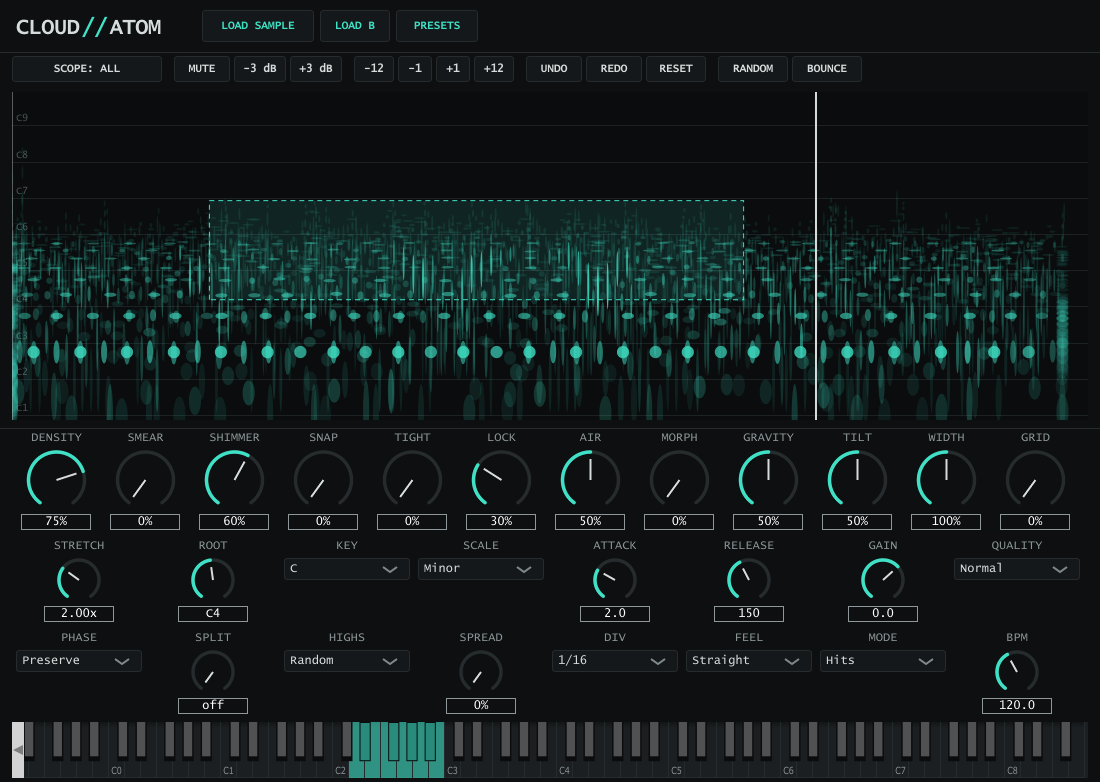
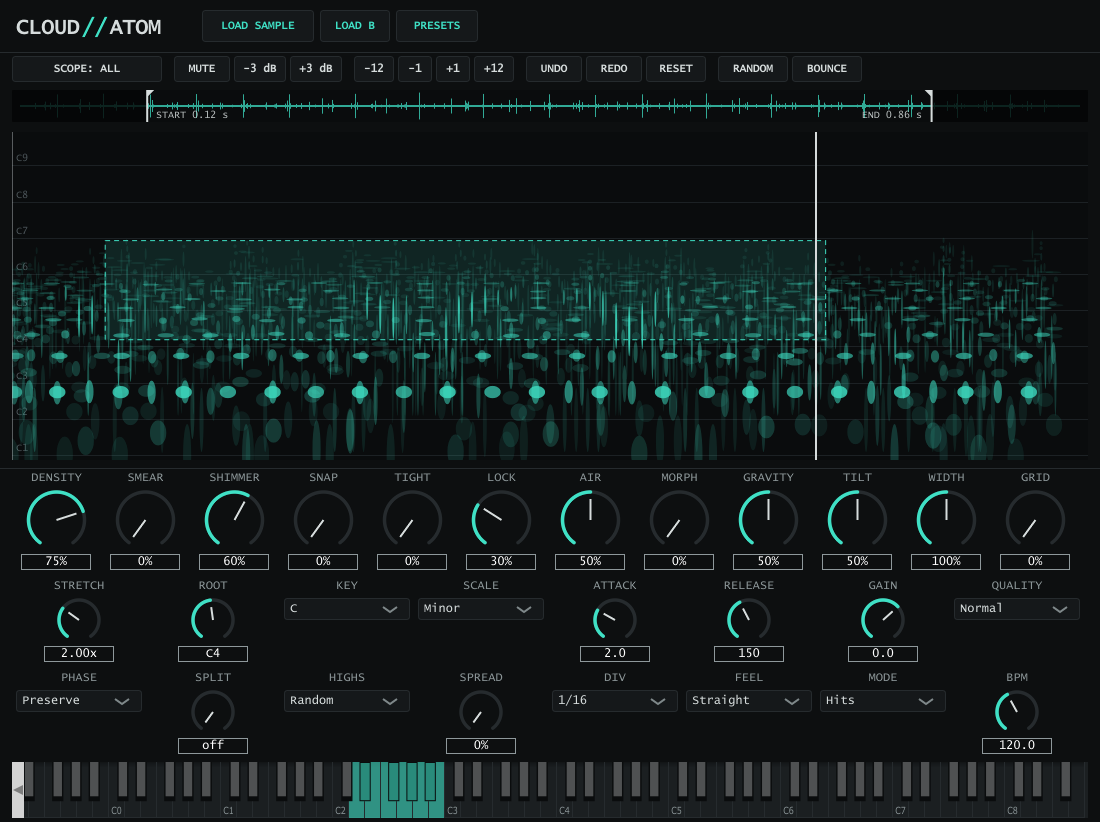
CLOUD//ATOM v1.2: start / end markers (Stripey), new screenshot

diff --git a/cloud-atom/index.html b/cloud-atom/index.html
@@ -66,7 +66,7 @@
 <body>
 <main>
   <nav class="plugtabs"><a href="../">FIELD//FAIL</a><a href="./" class="on">CLOUD//ATOM</a><a href="../chop-strand/">CHOP//STRAND</a></nav>
-  <h1>CLOUD<span>//</span>ATOM <span style="color:var(--dim);font-size:14px">instrument plugin · v1.1</span></h1>
+  <h1>CLOUD<span>//</span>ATOM <span style="color:var(--dim);font-size:14px">instrument plugin · v1.2</span></h1>
   <p class="sub">A sample-to-splat instrument: every sound becomes a cloud of Gabor atoms you can stretch, snap, sculpt and morph. Build log and renders from the plugin engine first, the original Python prototype below.
     </p>
 
@@ -74,6 +74,7 @@
   <h2>Build log</h2>
   <div class="panel">
     <ul class="log">
+      <li><time>2026-10-24</time><div><b>v1.2: start and end markers</b><p>Stripey asked for a way to pick which part of the sample plays. A strip above the cloud now shows the whole sample with draggable START and END markers (shaded outside, double-click to reset). The note starts at START, and END cuts it with a 5 ms fade even with the key held. Stretch, Lock, Grid and Bounce all count from the start marker, edits stay put in the sample's own time, and the markers are automatable and saved with the project.</p></div></li>
       <li><time>2026-10-16</time><div><b>v1.1: Stripey's notes (stereo, grid, Tight)</b><p>Stereo: samples now load in stereo and every atom keeps where it sat (its left/right balance and phase offset, measured from the source), with the leftover side signal in the noise layer. WIDTH goes from mono through the sample's own image (the Reese comes back at side/mid 0.72 vs 0.71 in the source) to 200%, widening only above the bass; SPREAD gives mono samples a stereo image by panning partials by frequency. Grid: GRID pulls the cloud onto the host tempo (1/4 to 1/32, straight, dotted or triplet): in Hits mode every hit lands on its own grid step and stays intact (within 0.1 ms in the tests), in Atoms mode any sound turns into pulses. Tight was broken: it re-phased whole tails and its extra peak went straight into the limiter. It now shapes only each hit (5 ms before to 30 ms after the onset), works on held notes, and is honest about real drums, where hits are already coherent and it adds about 1.5 dB of punch.</p></div></li>
       <li><time>2026-10-16</time><div><b>Milestone 5: ready to play</b><p>15 starter presets organised by job (Bass, Drums, Vocals, Textures, FX), each telling you what to load; they also show up as the host's program list. Right-click any macro to see what it drives, reset it, or lock it; RANDOM explores musical ranges around your sound and leaves locked macros alone. BOUNCE freezes the current sound to a WAV, and the status line shows CPU. On Apple Silicon CI the universal build passes auval, and 8 stretched voices with the noise layer use about 4% of a core. 45 plugin checks pass. Every milestone in the design doc's roadmap is now built.</p></div></li>
       <li><time>2026-10-16</time><div><b>Milestone 4: sharper analysis</b><p>A refinement pass after the pursuit: every atom, loudest first, is put back and its time, frequency, width and chirp are re-fitted to the final cloud (cyclic matching pursuit). Same atom count, cleaner sound: the Reese at 800 atoms goes from 24.2 to 28.5 dB SNR, drums and lo-fi gain 1 to 2 dB, for about 10 to 15% more analysis time, and atoms can now glide (chirp). Longer atoms were measured too and left off: +1.3 dB on the Reese, nothing elsewhere, 3 to 5 times slower. Quality: Draft = pursuit only, Normal = 1 pass, Fine = 2. Also: the plugin's inner loop now has a NEON path for Apple Silicon.</p></div></li>
@@ -85,13 +86,13 @@
       <li><time>2026-10-16</time><div><b>Design doc v0.2</b><p>Findings folded back into the design: corrected render loop, transient lock, anchored Linear phase as the Tight punch control, noise layer, a cut-down v1 scope.</p></div></li>
       <li><time>2026-10-16</time><div><b>Python prototype (milestone 1)</b><p>Matching pursuit, the corrected renderer, phase modes, noise layer: the renders further down.</p></div></li>
     </ul>
-    <div class="road"><span class="done">M1 · Python prototype</span><span class="done">M1b · C++ engine</span><span class="done">v0.1 · Playable plugin (VST3 / AU / Standalone)</span><span class="done">M2 · Sculpt: select and edit atoms on the plane, op stack, presets</span><span class="done">M3 · Morph between two clouds, per-region settings</span><span class="done">M4 · Analysis quality: refinement pass, longer atoms</span><span class="done">M5 · Starter presets, onboarding, polish</span><span class="done">v1.1 · Stereo, Width, Grid, Tight fix (Stripey)</span></div>
+    <div class="road"><span class="done">M1 · Python prototype</span><span class="done">M1b · C++ engine</span><span class="done">v0.1 · Playable plugin (VST3 / AU / Standalone)</span><span class="done">M2 · Sculpt: select and edit atoms on the plane, op stack, presets</span><span class="done">M3 · Morph between two clouds, per-region settings</span><span class="done">M4 · Analysis quality: refinement pass, longer atoms</span><span class="done">M5 · Starter presets, onboarding, polish</span><span class="done">v1.1 · Stereo, Width, Grid, Tight fix (Stripey)</span><span class="done">v1.2 · Start / end markers (Stripey)</span></div>
   </div>
 
   <h2>The plugin</h2>
   <div class="panel">
-    <img class="shot" src="plugin-v1.png" alt="CLOUD ATOM plugin window: Load, Load B and Presets; Sculpt toolbar with Random and Bounce; cloud view with a dashed selection box; ten macro knobs; settings row and keyboard" width="1100" height="782">
-    <div class="legend">The plugin at v1.1 (WIDTH and GRID in the macro row, PLAY and ENGINE rows below), rendered by the headless plugin tests: a 110 Hz tone stretched 2x, with Shimmer scoped to the dashed selection only. Builds go to testers directly.</div>
+    <img class="shot" src="plugin-v1.png" alt="CLOUD ATOM plugin window: Load, Load B and Presets; Sculpt toolbar with Random and Bounce; cloud view with a dashed selection box; ten macro knobs; settings row and keyboard" width="1100" height="822">
+    <div class="legend">The plugin at v1.2: the START / END strip above the cloud, WIDTH and GRID in the macro row, PLAY and ENGINE rows below; rendered by the headless plugin tests: a 110 Hz tone stretched 2x, with Shimmer scoped to the dashed selection only. Builds go to testers directly.</div>
   </div>
 
 
